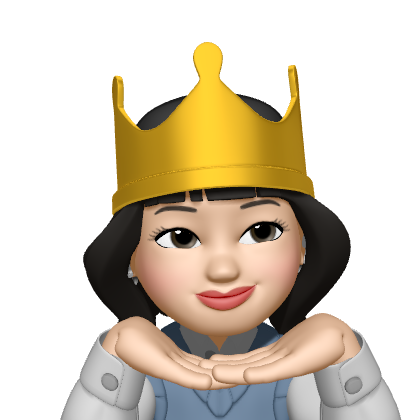
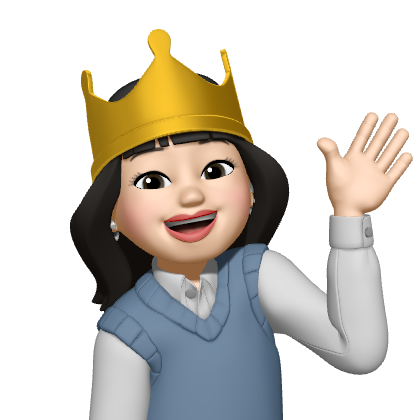
Contact emailForm 구현

diff --git a/src/component/EmailForm.tsx b/src/component/EmailForm.tsx
@@ -1,7 +1,100 @@
 import React, { useRef, FormEvent } from 'react';
 import emailjs from '@emailjs/browser';
+import styled from 'styled-components';
+import { COLOR } from '../style/theme';
+import { SiMinutemailer } from 'react-icons/si';
 
-const EmailForm = () => {
+const EmailFormWrapper = styled.div`
+  width: 100%;
+  height: 83%;
+  display: flex;
+  flex-direction: column;
+  align-items: center;
+  background-color: ${COLOR.bg_green};
+  /* border: 1.5px solid ${COLOR.main_red}; */
+  border-radius: 20px;
+  padding-top: 30px;
+  h2 {
+    font-size: 24px;
+    margin-bottom: 30px;
+  }
+`;
+
+const EmailForm = styled.form`
+  width: 70%;
+  display: flex;
+  flex-direction: column;
+  justify-content: center;
+  div {
+    display: flex;
+    flex-direction: row;
+    justify-content: space-between;
+    align-items: center;
+    margin-bottom: 20px;
+  }
+`;
+
+const EmailLabel = styled.label`
+  font-size: 18px;
+  margin-right: 10px;
+  border-bottom: 3px double ${COLOR.main_red};
+`;
+
+const InputForm = styled.input`
+  width: 85%;
+  height: 30px;
+  border-radius: 20px;
+  padding-left: 18px;
+  font-size: 16px;
+  font-family: 'Nanum Gothic';
+  letter-spacing: 1.5px;
+  background-color: ${COLOR.bg};
+
+  &:focus {
+    outline: none;
+    box-shadow: 2px 3px 2px 1px ${COLOR.hover_green};
+  }
+`;
+
+const EmailTextArea = styled.textarea`
+  width: 100% !important;
+  min-height: 160px;
+  max-height: 220px;
+  padding: 10px;
+  font-size: 16px;
+  font-family: 'Nanum Gothic';
+  line-height: 1.5;
+  background-color: ${COLOR.bg};
+  border-radius: 10px;
+
+  &:focus {
+    outline: none;
+    box-shadow: 4px 6px 3px 1px ${COLOR.hover_green};
+  }
+`;
+
+const EmailSubmitButton = styled.button`
+  height: 40px;
+  font-size: 18px;
+  font-family: 'Jua';
+  align-items: center;
+  margin-top: 30px;
+  border-radius: 20px;
+  border: none;
+  background-color: ${COLOR.main_green};
+  color: ${COLOR.bg};
+  cursor: pointer;
+  span {
+    margin-right: 5px;
+    color: ${COLOR.bg};
+  }
+
+  &:hover {
+    background-color: ${COLOR.hover_green};
+  }
+`;
+
+const SendEmail = () => {
   const form = useRef<HTMLFormElement>(null);
 
   const sendEmail = (e: FormEvent) => {
@@ -25,25 +118,29 @@ const EmailForm = () => {
   };
 
   return (
-    <div>
-      <form ref={form} onSubmit={sendEmail}>
-        <label>
-          이메일
-          <input type="email" name="fromEmail" required />
-        </label>
-        <label>
-          제목
-          <input type="text" name="subject" required />
-        </label>
-        <label>
-          <textarea name="content" required />
-        </label>
-        <button type="submit" value="sendEmail">
-          보내기
-        </button>
-      </form>
-    </div>
+    <EmailFormWrapper>
+      <h2>궁금한 점은 메일로 문의해 주세요🙏</h2>
+      <EmailForm ref={form} onSubmit={sendEmail}>
+        <div>
+          <EmailLabel>이메일</EmailLabel>
+          <InputForm type="email" name="fromEmail" required />
+        </div>
+        <div>
+          <EmailLabel>제목</EmailLabel>
+          <InputForm type="text" name="subject" maxLength={30} required />
+        </div>
+        <EmailTextArea
+          name="content"
+          placeholder="내용을 입력해 주세요"
+          required
+        />
+        <EmailSubmitButton type="submit" value="sendEmail">
+          <span>메일 보내기</span>
+          <SiMinutemailer />
+        </EmailSubmitButton>
+      </EmailForm>
+    </EmailFormWrapper>
   );
 };
 
-export default EmailForm;
+export default SendEmail;

diff --git a/src/pages/Contact.tsx b/src/pages/Contact.tsx
@@ -3,30 +3,96 @@ import { Page } from '../component/CommonStyle';
 import styled from 'styled-components';
 import { MdOutlineMailOutline } from 'react-icons/md';
 import { IoPhonePortraitOutline } from 'react-icons/io5';
-import EmailForm from '../component/EmailForm';
+
+import { COLOR } from '../style/theme';
+import { RiKakaoTalkFill } from 'react-icons/ri';
+import SendEmail from '../component/EmailForm';
 
 const ContactTitle = styled.h1`
   font-size: 44px;
   margin-top: 70px;
+  margin-bottom: 50px;
+`;
+
+const ContactWrapper = styled.section`
+  width: 70%;
+  height: 100%;
+  display: flex;
+  flex-direction: row;
+  justify-content: space-between;
+`;
+
+const ContactInfoWrapper = styled.div`
+  display: flex;
+  flex-direction: column;
+  margin-right: 100px;
+  img {
+    width: 220px;
+    border: 3px double ${COLOR.main_red};
+    border-radius: 50% 50% 0 0;
+    background-color: ${COLOR.bg_green};
+    padding: 10px 0px 0px 20px;
+  }
+  h3 {
+    font-size: 26px;
+    text-align: center;
+    border-bottom: 2px solid ${COLOR.main_red};
+    margin-top: 20px;
+    margin-bottom: 20px;
+  }
+`;
+
+const ContactInfo = styled.div`
+  p {
+    font-size: 18px;
+    margin-left: 30px;
+    margin-bottom: 20px;
+  }
+`;
+
+const ContactType = styled.div`
+  display: flex;
+  flex-direction: row;
+  align-items: center;
+  font-size: 16px;
+  margin-bottom: 10px;
 `;
 
 const Contact = () => {
   return (
     <Page>
       <ContactTitle>CONTACT</ContactTitle>
-      <div>
-        <div>
-          <MdOutlineMailOutline />
-          <span>Email</span>
-          <p>kiji13133@gmail.com</p>
-        </div>
-        <div>
-          <IoPhonePortraitOutline />
-          <span>Phone Number</span>
-          <p>010-8908-6252</p>
-        </div>
-        <EmailForm />
-      </div>
+      <ContactWrapper>
+        <ContactInfoWrapper>
+          <img
+            src={process.env.PUBLIC_URL + '/assets/mimo3.png'}
+            alt="contactimg"
+          />
+          <h3>Contact With Me</h3>
+          <ContactInfo>
+            <ContactType>
+              <MdOutlineMailOutline />
+              <span>EMAIL</span>
+            </ContactType>
+            <p>kiji1313@gmail.com</p>
+          </ContactInfo>
+          <ContactInfo>
+            <ContactType>
+              <IoPhonePortraitOutline />
+              <span>PHONE</span>
+            </ContactType>
+            <p>010-8908-6252</p>
+          </ContactInfo>
+          <ContactInfo>
+            <ContactType>
+              <RiKakaoTalkFill />
+              <span>KAKAO ID</span>
+            </ContactType>
+            <p>kiji1313</p>
+          </ContactInfo>
+        </ContactInfoWrapper>
+        <SendEmail />
+      </ContactWrapper>
     </Page>
   );
 };

diff --git a/src/pages/About.tsx b/src/pages/About.tsx
@@ -11,11 +11,11 @@ import LinkButton from '../component/LinkButton';
 const AboutTitle = styled.h1`
   font-size: 44px;
   margin-top: 70px;
-  margin-bottom: 70px;
+  margin-bottom: 50px;
 `;
 
 const AboutMainContent = styled.div`
-  width: 70vw;
+  width: 70%;
 
   display: flex;
   flex-direction: row;
@@ -26,6 +26,12 @@ const PrivacyWrapper = styled.section`
   display: flex;
   flex-direction: column;
   align-items: center;
+  img {
+    width: 220px;
+    border: 3px double ${COLOR.main_red};
+    border-radius: 50% 50% 0 0;
+    background-color: ${COLOR.bg_green};
+  }
 `;
 
 const ProfileWrapper = styled.div`
@@ -40,16 +46,6 @@ const ProfileWrapper = styled.div`
   margin-bottom: 30px;
   h2 {
     margin-bottom: 8px;
-  }
-`;
-
-const ImgWrapper = styled.article`
-  width: fit-content;
-  border: 2px solid ${COLOR.main_red};
-  border-radius: 50%;
-  overflow: hidden;
-  img {
-    width: 180px;
   }
 `;
 
@@ -121,9 +117,7 @@ const About = () => {
       <AboutTitle>ABOUT</AboutTitle>
       <AboutMainContent>
         <PrivacyWrapper>
-          <ImgWrapper>
-            <img src={process.env.PUBLIC_URL + '/assets/mimo1.png'} />
-          </ImgWrapper>
+          <img src={process.env.PUBLIC_URL + '/assets/mimo2.png'} />
           <ProfileWrapper>
             <h2>프론트엔드 개발자</h2>
             <p>기지원</p>

diff --git a/src/pages/Title.tsx b/src/pages/Title.tsx
@@ -25,17 +25,16 @@ const MainTitle = styled.div`
   justify-content: center;
   align-items: center;
 
+  img {
+    width: 230px;
+    margin-bottom: 10px;
+  }
   p {
     font-size: 30px;
     &:last-child {
       margin-top: 10px;
     }
   }
-`;
-
-const MainImage = styled.img`
-  width: 200px;
-  margin-bottom: 10px;
 `;
 
 const BottomTitle = styled.div`
@@ -57,7 +56,7 @@ const Title = () => {
         <TitleText>PORT</TitleText>
       </TopTitle>
       <MainTitle>
-        <MainImage src={process.env.PUBLIC_URL + '/assets/mimo3.png'} />
+        <img src={process.env.PUBLIC_URL + '/assets/mimo1.png'} />
         <p>Frontend Developer</p>
         <p>기지원</p>
       </MainTitle>

diff --git a/src/component/NavBar.tsx b/src/component/NavBar.tsx
@@ -7,6 +7,7 @@ const NavBarComponent = styled.nav`
   position: fixed;
   right: 0px;
   top: 10px;
+  z-index: 100000000;
 `;
 
 const LinkButton = styled.button`
